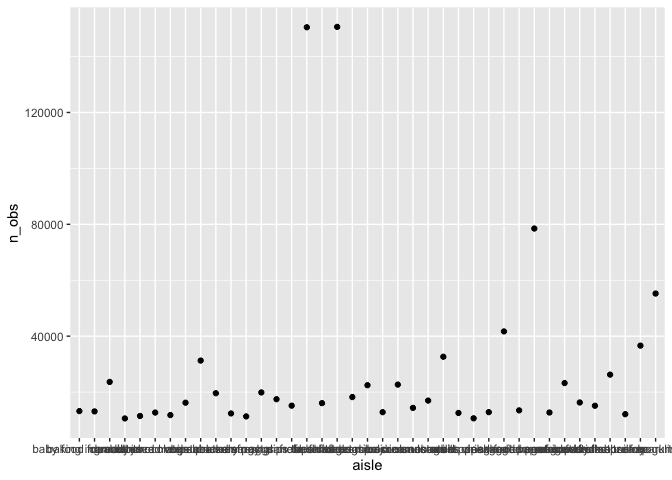
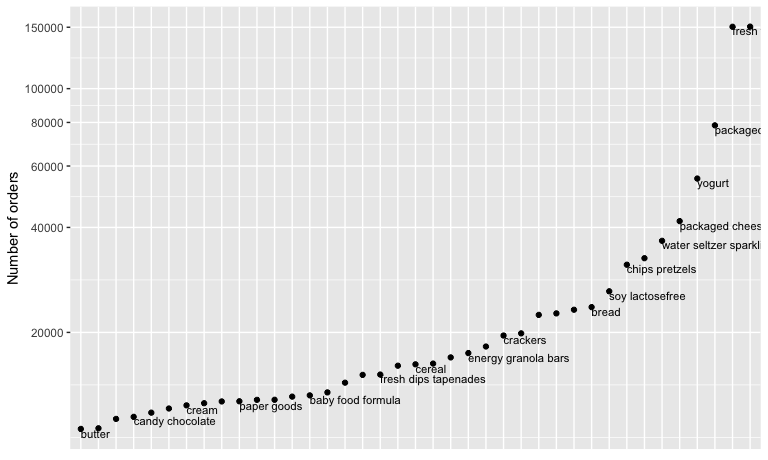
Almost done with problem 1

diff --git a/hw3.md b/hw3.md
@@ -24,6 +24,11 @@ library(tidyverse)
 ``` r
 library(p8105.datasets)
 data("instacart")
+
+knitr::opts_chunk$set(
+  fig.width = 8,
+  fig.asp = 0.6,
+  out.width = "90%")
 ```
 
 *Write a short description of the dataset, noting the size and structure
@@ -131,19 +136,55 @@ instacart %>%
     n_obs = n()
   ) %>% 
   filter(n_obs >= 10000) %>% 
-    arrange((n_obs)) %>% 
-  ggplot(aes(x = aisle, y = n_obs)) +
-geom_point()
+     mutate(aisle = fct_reorder(aisle, n_obs)) %>% 
+  ggplot(aes(x = aisle, y = n_obs, label = aisle)) +
+geom_point() +
+scale_y_log10(breaks = c(20000, 40000, 60000, 80000, 100000, 150000), labels = c("20000", "40000", "60000", "80000", "100000", "150000")) +
+  geom_text(aes(label=aisle, hjust = 0, vjust = 1), size = 3, check_overlap = TRUE) +
+  theme(axis.title.x=element_blank(),
+        axis.text.x=element_blank(),
+        axis.ticks.x=element_blank()) +
+  labs(
+    y = "Number of orders" 
+  )
 ```
 
-![](hw3_files/figure-gfm/unnamed-chunk-5-1.png)<!-- -->
+<img src="hw3_files/figure-gfm/unnamed-chunk-5-1.png" width="90%" />
 
-Arrange in ascending order. Change Y axis to log, and maybe put labels
-next to points.
-
-Make a table showing the three most popular items in each of the aisles
+*Make a table showing the three most popular items in each of the aisles
 “baking ingredients”, “dog food care”, and “packaged vegetables fruits”.
-Include the number of times each item is ordered in your table. Make a
-table showing the mean hour of the day at which Pink Lady Apples and
-Coffee Ice Cream are ordered on each day of the week; format this table
-for human readers (i.e. produce a 2 x 7 table).
+Include the number of times each item is ordered in your table.*
+
+``` r
+instacart %>% 
+  group_by(aisle, product_name) %>% 
+  summarize(
+    n_obs = n()
+  ) %>% 
+  mutate(
+    order_rank = min_rank(-n_obs)
+  ) %>% 
+  filter(aisle == "baking ingredients" | aisle == "dog food care" | aisle == "packaged vegetables fruits") %>% 
+  filter(order_rank <= 3) %>% 
+  arrange(aisle, order_rank)
+```
+
+    ## `summarise()` has grouped output by 'aisle'. You can override using the `.groups` argument.
+
+    ## # A tibble: 9 x 4
+    ## # Groups:   aisle [3]
+    ##   aisle                  product_name                           n_obs order_rank
+    ##   <chr>                  <chr>                                  <int>      <int>
+    ## 1 baking ingredients     Light Brown Sugar                        499          1
+    ## 2 baking ingredients     Pure Baking Soda                         387          2
+    ## 3 baking ingredients     Cane Sugar                               336          3
+    ## 4 dog food care          Snack Sticks Chicken & Rice Recipe Do…    30          1
+    ## 5 dog food care          Organix Chicken & Brown Rice Recipe       28          2
+    ## 6 dog food care          Small Dog Biscuits                        26          3
+    ## 7 packaged vegetables f… Organic Baby Spinach                    9784          1
+    ## 8 packaged vegetables f… Organic Raspberries                     5546          2
+    ## 9 packaged vegetables f… Organic Blueberries                     4966          3
+
+Make a table showing the mean hour of the day at which Pink Lady Apples
+and Coffee Ice Cream are ordered on each day of the week; format this
+table for human readers (i.e. produce a 2 x 7 table).
